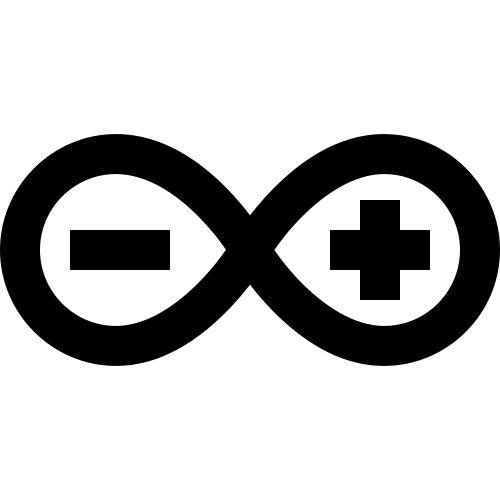
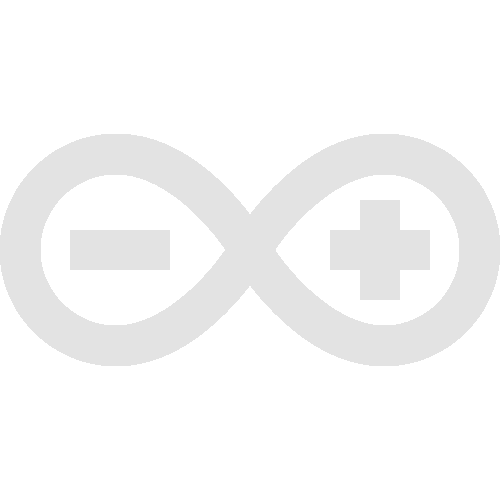
Changed some image paths and removed color parameter of Image.asset()s.

Changed region(s): [[0.0, 0.27, 1.0, 0.75], [0.66, 0.39, 0.87, 0.6], [0.12, 0.45, 0.36, 0.54]]

diff --git a/lib/features/home/presentation/pages/home_page/components/projects_section_widget/components/projects_section_project_widget.dart b/lib/features/home/presentation/pages/home_page/components/projects_section_widget/components/projects_section_project_widget.dart
@@ -3,7 +3,10 @@ import '../../../../../../../../core/app_colors.dart';
 
 class ProjectsSectionProjectWidget extends StatefulWidget {
   const ProjectsSectionProjectWidget(
-      {Key? key, required this.name, required this.imagePath, required this.pageRoute})
+      {Key? key,
+      required this.name,
+      required this.imagePath,
+      required this.pageRoute})
       : super(key: key);
 
   final String name;
@@ -11,10 +14,12 @@ class ProjectsSectionProjectWidget extends StatefulWidget {
   final String pageRoute;
 
   @override
-  State<ProjectsSectionProjectWidget> createState() => _ProjectsSectionProjectWidgetState();
+  State<ProjectsSectionProjectWidget> createState() =>
+      _ProjectsSectionProjectWidgetState();
 }
 
-class _ProjectsSectionProjectWidgetState extends State<ProjectsSectionProjectWidget> {
+class _ProjectsSectionProjectWidgetState
+    extends State<ProjectsSectionProjectWidget> {
   bool _isHovered = false;
 
   @override
@@ -43,7 +48,7 @@ class _ProjectsSectionProjectWidgetState extends State<ProjectsSectionProjectWid
               widget.imagePath,
               height: 45,
               width: 45,
-              color: _isHovered ? AppColors.primaryColor : AppColors.defaultTextColor,
+              color: _isHovered ? AppColors.primaryColor : null,
               filterQuality: FilterQuality.medium,
             ),
             const SizedBox(height: 18.0),
@@ -51,7 +56,9 @@ class _ProjectsSectionProjectWidgetState extends State<ProjectsSectionProjectWid
               widget.name,
               textAlign: TextAlign.center,
               style: TextStyle(
-                color: _isHovered ? AppColors.primaryColor : AppColors.defaultTextColor,
+                color: _isHovered
+                    ? AppColors.primaryColor
+                    : AppColors.defaultTextColor,
               ),
             ),
           ]),

diff --git a/lib/core/data/personal_info_constants.dart b/lib/core/data/personal_info_constants.dart
@@ -17,13 +17,18 @@ I love multidisciplinary solutions and outside-the-box thinking.''';
   static const String personalInfoProfilePicturePath =
       'lib/features/home/data/assets/images/giovani_profile_picture.png';
 
-  static const String mechatronicsImagePath =
+  static const String mechatronicsEngineerImagePath =
       'lib/features/home/data/assets/images/profession_images/mechatronics_engineer.png';
-  static const String flutterImagePath =
-      'lib/features/home/data/assets/images/skills_icons/flutter.png';
+  static const String flutterDeveloperImagePath =
+      'lib/features/home/data/assets/images/profession_images/flutter_developer.png';
+
+  static const String flutterProjectsImagePath =
+      'lib/features/home/data/assets/images/projects_images/flutter.png';
+  static const String mechatronicsProjectsImagePath =
+      'lib/features/home/data/assets/images/projects_images/mechatronics.png';
 
   static const Map skills = {
-    'Flutter': flutterImagePath,
+    'Flutter': 'lib/features/home/data/assets/images/skills_icons/flutter.png',
     'Firebase':
         'lib/features/home/data/assets/images/skills_icons/firebase.png',
     'Git': 'lib/features/home/data/assets/images/skills_icons/git.png',

diff --git a/lib/features/home/presentation/pages/home_page/components/projects_section_widget/projects_section_widget.dart b/lib/features/home/presentation/pages/home_page/components/projects_section_widget/projects_section_widget.dart
@@ -25,7 +25,7 @@ class ProjectsSectionWidget extends StatelessWidget {
               Expanded(
                 child: ProjectsSectionProjectWidget(
                   name: 'Flutter',
-                  imagePath: PersonalInfoConstants.flutterImagePath,
+                  imagePath: PersonalInfoConstants.flutterProjectsImagePath,
                   pageRoute: AppRoutes.flutterProjects,
                 ),
               ),
@@ -33,7 +33,8 @@ class ProjectsSectionWidget extends StatelessWidget {
               Expanded(
                 child: ProjectsSectionProjectWidget(
                   name: 'Mechatronics',
-                  imagePath: PersonalInfoConstants.mechatronicsImagePath,
+                  imagePath:
+                      PersonalInfoConstants.mechatronicsProjectsImagePath,
                   pageRoute: AppRoutes.mechatronicsProjects,
                 ),
               ),

diff --git a/lib/core/data/assets/images/icons/social_media_icons/social_media_icons_paths.dart b/lib/core/data/assets/images/icons/social_media_icons/social_media_icons_paths.dart
@@ -1,10 +1,9 @@
 class SocialMediaIconsPaths {
   static const Map iconsPaths = {
     'LinkedIn':
-        'lib/core/data/assets/images/icons/social_media_icons/linkedin_icon.png',
-    'GitHub':
-        'lib/core/data/assets/images/icons/social_media_icons/github_icon.png',
+        'lib/core/data/assets/images/icons/social_media_icons/linkedin.png',
+    'GitHub': 'lib/core/data/assets/images/icons/social_media_icons/github.png',
     'YouTube':
-        'lib/core/data/assets/images/icons/social_media_icons/youtube_icon.png',
+        'lib/core/data/assets/images/icons/social_media_icons/youtube.png',
   };
 }

diff --git a/lib/features/home/presentation/pages/home_page/components/personal_info_section_widget/components/professions_widget/professions_widget.dart b/lib/features/home/presentation/pages/home_page/components/personal_info_section_widget/components/professions_widget/professions_widget.dart
@@ -12,13 +12,13 @@ class ProfessionsWidget extends StatelessWidget {
       runSpacing: 12.0,
       children: const [
         ProfessionWidget(
-          PersonalInfoConstants.mechatronicsImagePath,
+          PersonalInfoConstants.mechatronicsEngineerImagePath,
           '''Mechatronics
 Engineer''',
         ),
         SizedBox(width: 24.0),
         ProfessionWidget(
-          PersonalInfoConstants.flutterImagePath,
+          PersonalInfoConstants.flutterDeveloperImagePath,
           '''Flutter
 Developer''',
         ),

diff --git a/lib/features/home/presentation/pages/home_page/components/personal_info_section_widget/components/social_media_row_widget/social_media_widget.dart b/lib/features/home/presentation/pages/home_page/components/personal_info_section_widget/components/social_media_row_widget/social_media_widget.dart
@@ -37,8 +37,7 @@ class _SocialMediaWidgetState extends State<SocialMediaWidget> {
         },
         child: Image.asset(
           widget.imagePath,
-          color:
-              _isHovered ? AppColors.primaryColor : AppColors.defaultTextColor,
+          color: _isHovered ? AppColors.primaryColor : null,
           height: 32.0,
           filterQuality: FilterQuality.medium,
         ),

diff --git a/lib/features/home/presentation/pages/home_page/components/personal_info_section_widget/components/professions_widget/profession_widget.dart b/lib/features/home/presentation/pages/home_page/components/personal_info_section_widget/components/professions_widget/profession_widget.dart
@@ -24,7 +24,6 @@ class ProfessionWidget extends StatelessWidget {
               imagePath,
               height: 45,
               width: 45,
-              color: AppColors.defaultTextColor,
               filterQuality: FilterQuality.medium,
             ),
             Text(

diff --git a/lib/features/home/presentation/pages/home_page/components/skills_section_widget/components/skills_list_widget/components/skill_widget.dart b/lib/features/home/presentation/pages/home_page/components/skills_section_widget/components/skills_list_widget/components/skill_widget.dart
@@ -23,7 +23,6 @@ class SkillWidget extends StatelessWidget {
               imagePath,
               height: 30,
               width: 30,
-              color: AppColors.defaultTextColor,
               filterQuality: FilterQuality.medium,
             ),
             Text(
